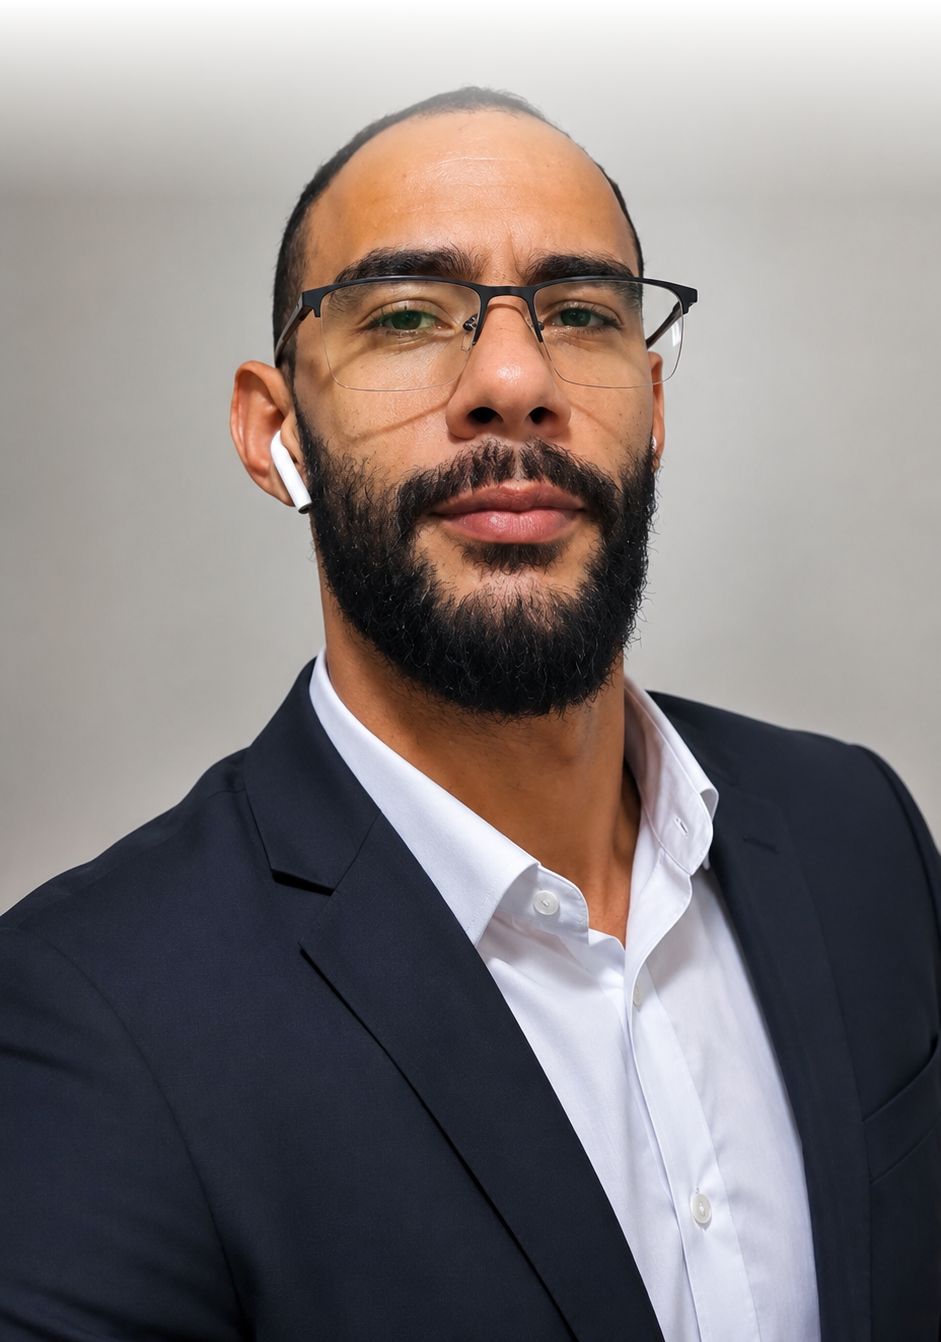
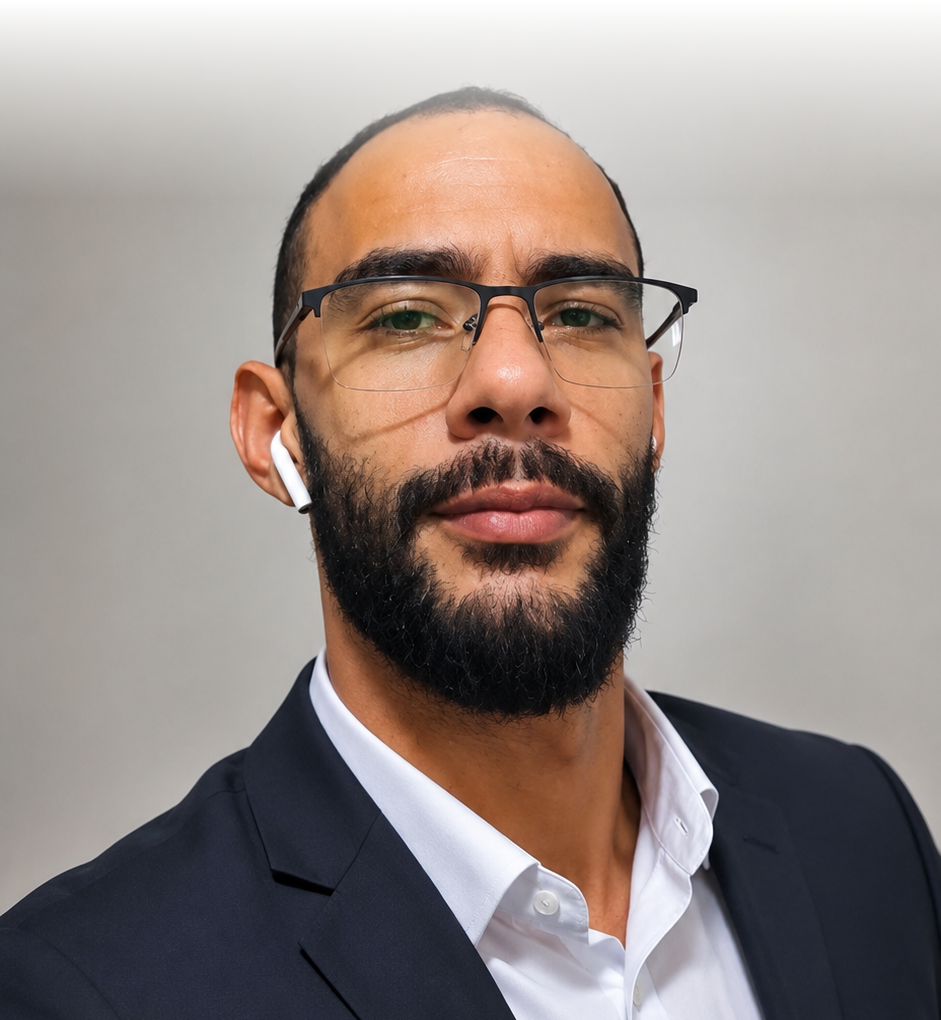
Reenquadra a foto do Hero para centralizar melhor o rosto
- Recorta o excesso de paleto/torso na base da foto, deixando o rosto
  proporcionalmente maior e mais bem enquadrado (composicao mais harmoniosa)
- Coluna da foto no Hero fica igual a do texto (antes era menor)
- object-position prioriza o rosto quando a foto e cortada no mobile
- Aumenta a altura maxima da foto do Hero no celular (mais em destaque
  que as demais fotos do site, que continuam compactas)

diff --git a/css/style.css b/css/style.css
@@ -380,7 +380,7 @@ h1, h2, h3, h4 {
 
 .hero__container {
     display: grid;
-    grid-template-columns: 1.1fr 0.9fr;
+    grid-template-columns: 1fr 1fr;
     align-items: center;
     gap: 60px;
     padding-top: 100px;
@@ -445,6 +445,7 @@ h1, h2, h3, h4 {
     position: relative;
     z-index: 1;
     border: 1px solid rgba(255, 255, 255, 0.1);
+    object-position: center 15%;
 }
 
 .hero__scroll-indicator {
@@ -1316,12 +1317,17 @@ h1, h2, h3, h4 {
     }
 
     /* Limita a altura das fotos para não dominarem a tela em telas pequenas */
-    .hero__image,
     .wifi-explain__image,
     .structure__image,
     .specialist__image,
     .contact__image {
         max-height: 280px;
+        object-fit: cover;
+    }
+
+    /* Foto do Hero fica maior e em destaque, com o rosto bem enquadrado */
+    .hero__image {
+        max-height: 380px;
         object-fit: cover;
     }
 }
@@ -1344,12 +1350,15 @@ h1, h2, h3, h4 {
         padding: 48px 0;
     }
 
-    .hero__image,
     .wifi-explain__image,
     .structure__image,
     .specialist__image,
     .contact__image {
         max-height: 220px;
+    }
+
+    .hero__image {
+        max-height: 320px;
     }
 
     .section__title {

diff --git a/index.html b/index.html
@@ -122,7 +122,7 @@
                 </div>
 
                 <div class="hero__media reveal">
-                    <img src="img/hero.png" alt="Matheus Luz, especialista em redes de computadores" class="hero__image" width="941" height="1342">
+                    <img src="img/hero.png" alt="Matheus Luz, especialista em redes de computadores" class="hero__image" width="941" height="1020">
                 </div>
             </div>
 
